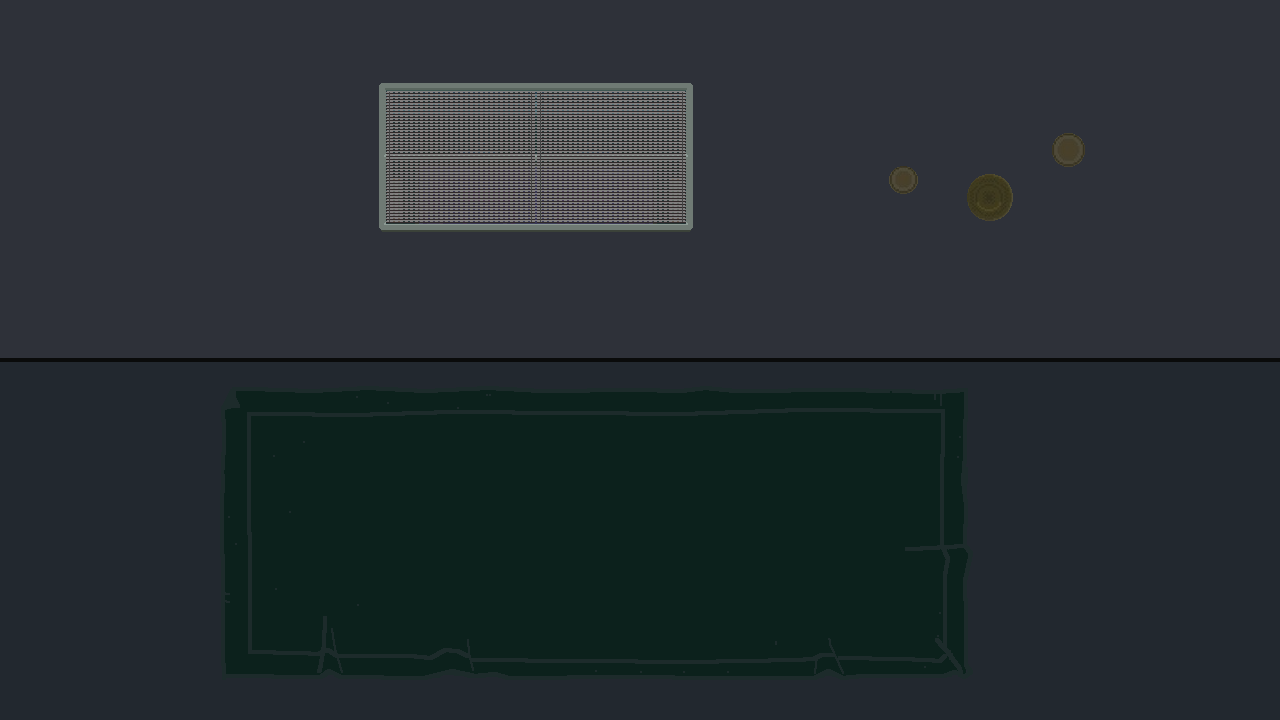
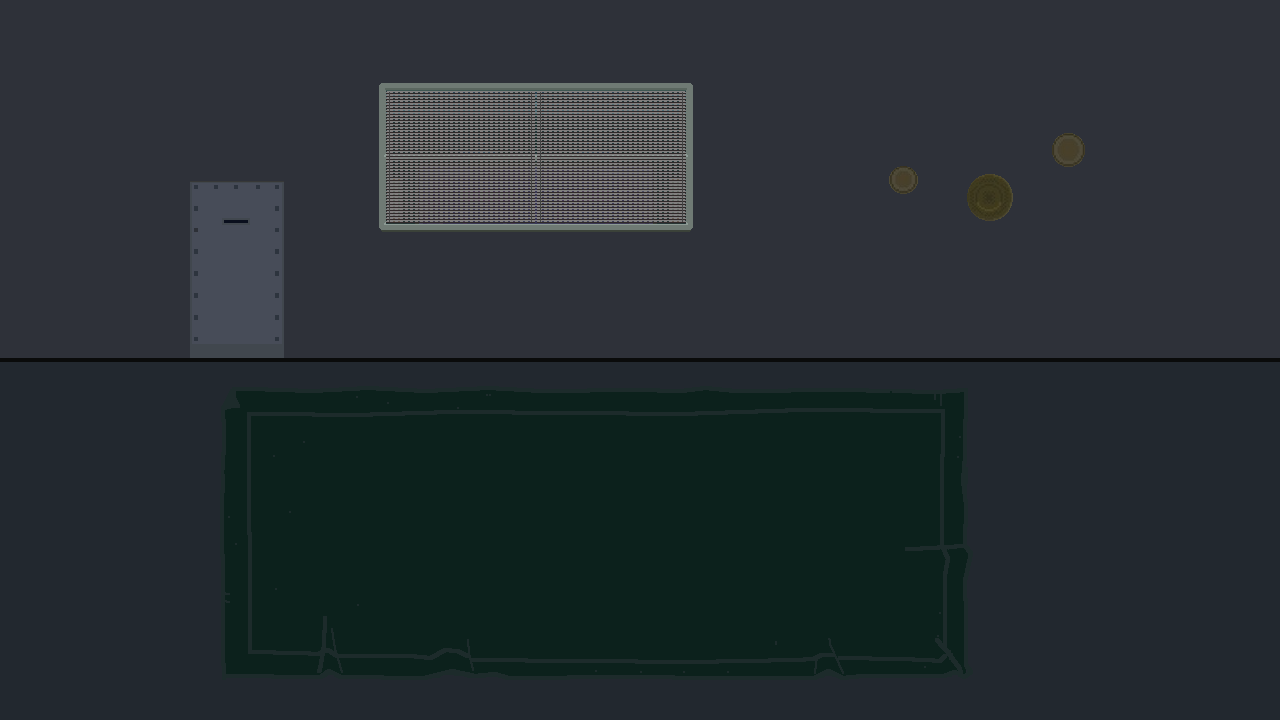
Corrgida la escena42caso1.png y añadida cajafuerteAbierta.png

Changed region(s): [[0.125, 0.2444, 0.2188, 0.4889]]

diff --git a/ProyectosSDL/HolaSDL/Resources.cpp b/ProyectosSDL/HolaSDL/Resources.cpp
@@ -239,11 +239,11 @@ std::vector<std::string> Resources::imageFiles_{
 "..//images/Objetos/radiografiaAnim.png", //animacion de la escena 33
 "..//images/Fondos/escena35caso1.png",
 "..//images/Fondos/escena42caso1.png",
-"..//images/Objetos/cajaFuerte.png",
+"..//images/Objetos/cajafuerte.png",
 "..//images/Objetos/interruptorCamello.png",
 "..//images/Objetos/cajaDeLuces.png",
 "..//images/Objetos/Colisionables/sofaCamello.png",
-"..//images/Objetos/Doors/puertaCasaCamello.png",
+"..//images/Objetos/cajafuerteAbierta.png",
 "..//images/Objetos/Colisionables/mesaCamello.png",
 };
 

diff --git a/ProyectosSDL/HolaSDL/Resources.h b/ProyectosSDL/HolaSDL/Resources.h
@@ -256,7 +256,7 @@ public:
 		InterruptorCamello,
 		LucesCamello,
 		SofaCamello,
-		PuertaCamello,
+		BuzonCamelloAbierto,
 		MesaCamello,
 	};
 private:
